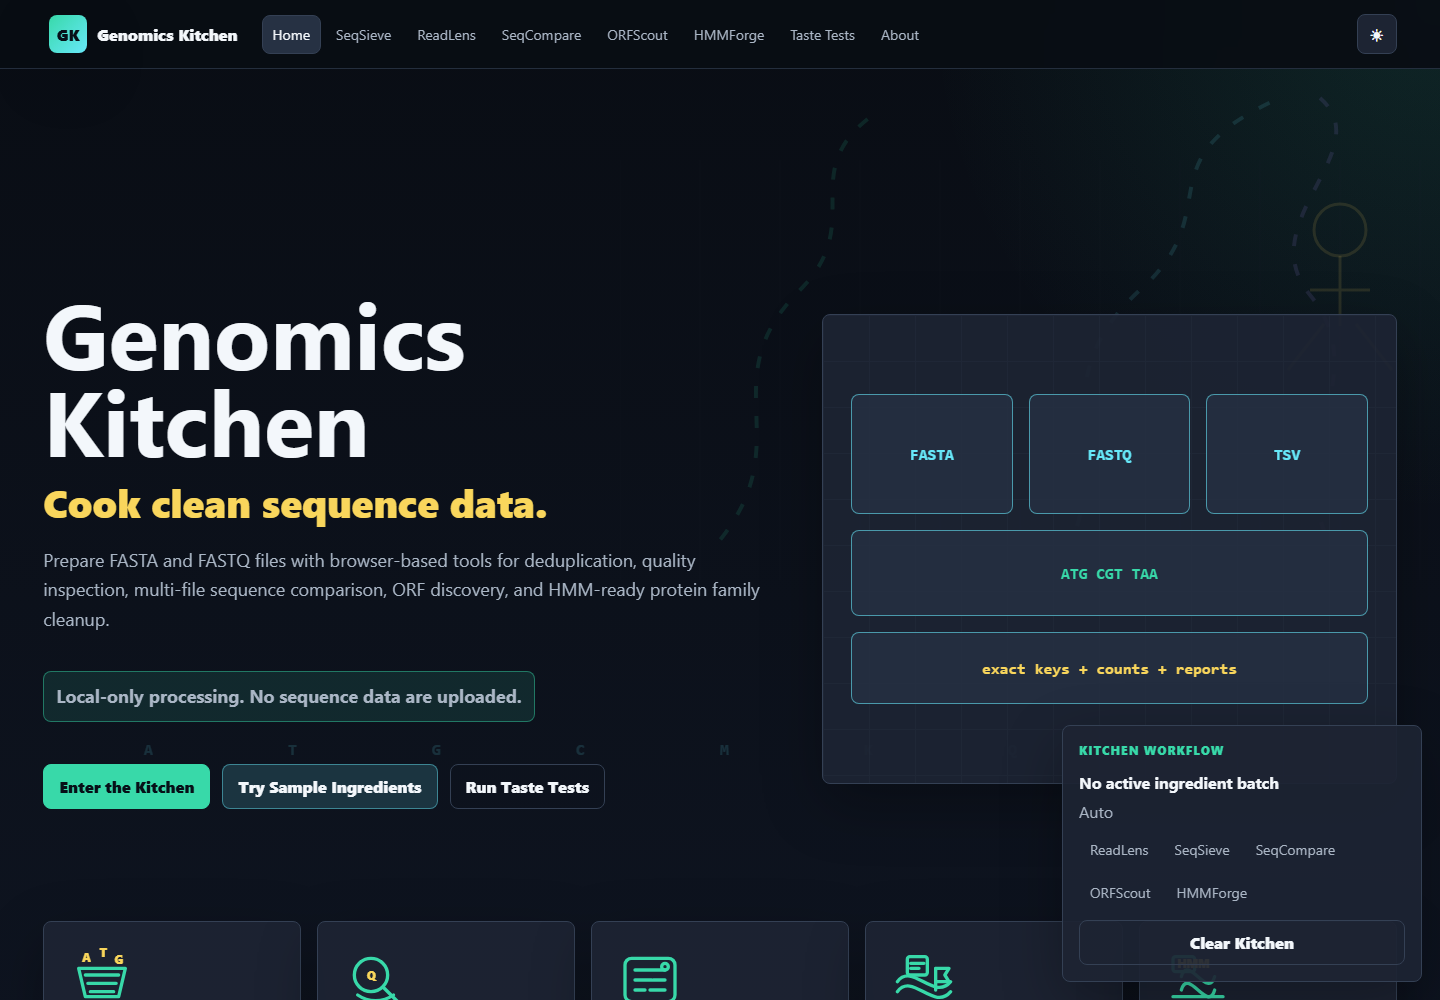
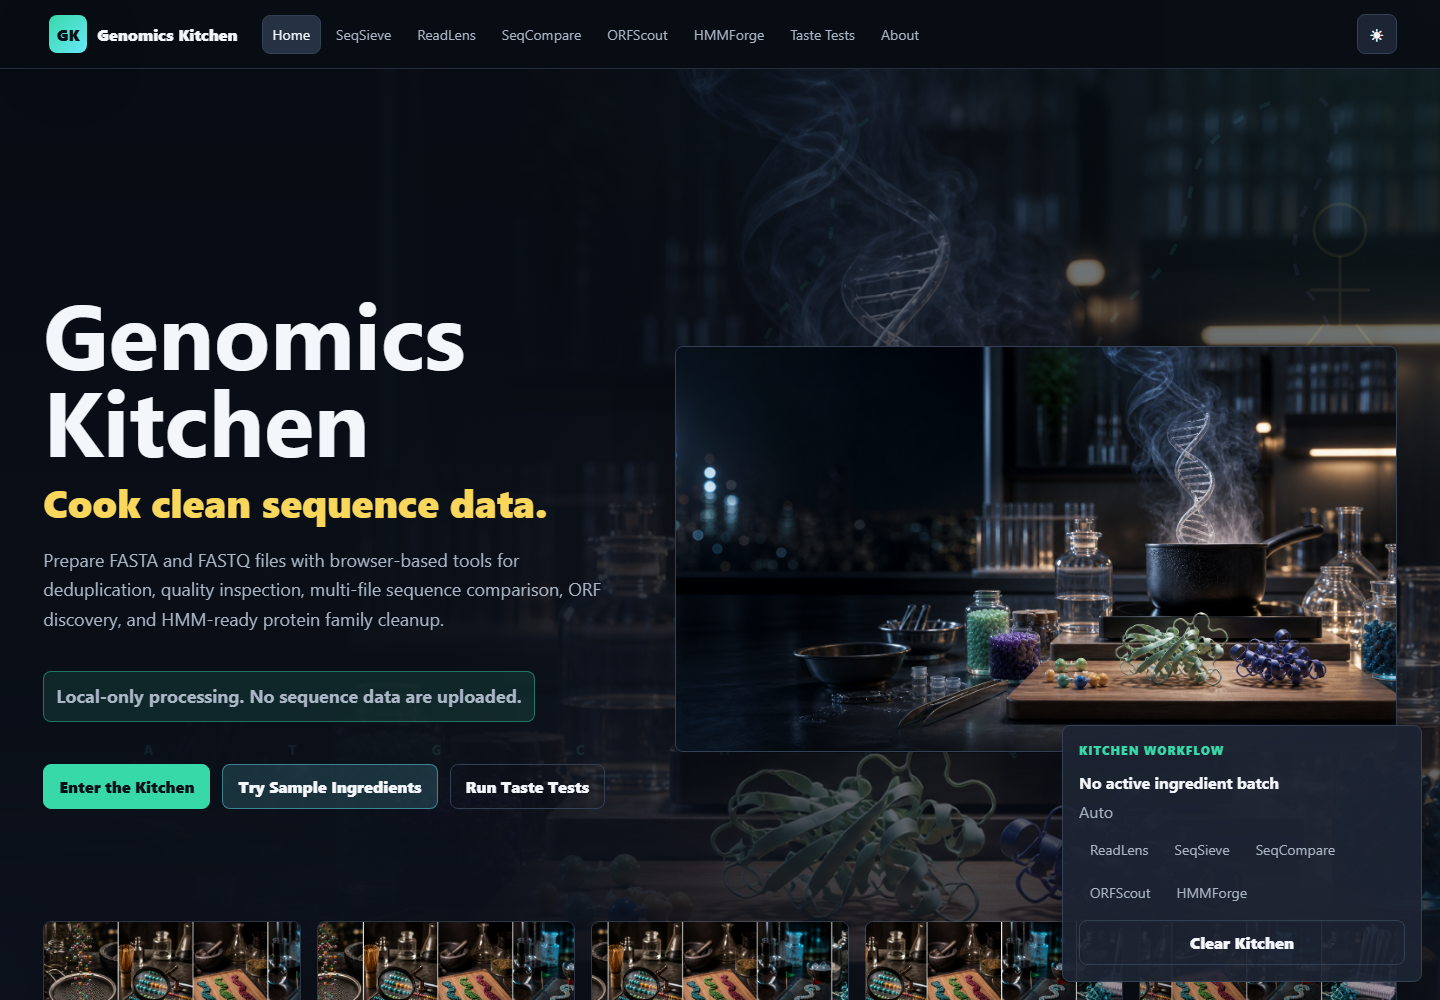
Add realistic Genomics Kitchen graphics

diff --git a/src/styles/global.css b/src/styles/global.css
@@ -12,7 +12,9 @@ nav button, .tabs button, .workflow-actions button { border: 1px solid transpare
 nav button.active, nav button:hover, .tabs button.active, .workflow-actions button:hover { color: var(--gk-text); background: var(--gk-surface-raised); border-color: var(--gk-border); }
 .icon-button { width: 40px; height: 40px; border-radius: 8px; border: 1px solid var(--gk-border); background: var(--gk-surface); color: var(--gk-text); }
 main { position: relative; z-index: 1; padding: 28px clamp(16px, 3vw, 44px) 160px; max-width: 1440px; margin: 0 auto; }
-.hero { min-height: calc(100vh - 96px); display: grid; grid-template-columns: minmax(0, 1fr) minmax(320px, .78fr); align-items: center; gap: 42px; }
+.hero { min-height: calc(100vh - 96px); display: grid; grid-template-columns: minmax(0, .9fr) minmax(360px, 1.1fr); align-items: center; gap: 42px; position: relative; }
+.hero::before { content: ""; position: absolute; inset: -28px calc(50% - 50vw) -88px; background: linear-gradient(90deg, var(--gk-bg) 0%, color-mix(in srgb, var(--gk-bg), transparent 10%) 34%, transparent 62%), var(--hero-image) center right / cover no-repeat; opacity: .42; mask-image: linear-gradient(180deg, #000 70%, transparent); }
+.hero-copy, .hero-photo { position: relative; z-index: 1; }
 .hero h1, .bench h1 { font-size: clamp(44px, 7vw, 92px); line-height: .95; margin: 0 0 12px; letter-spacing: 0; }
 .bench h1 { font-size: clamp(34px, 5vw, 64px); }
 .tagline { font-size: clamp(23px, 3vw, 39px); color: var(--gk-citrus); font-weight: 800; margin: 0 0 18px; }
@@ -25,14 +27,16 @@ main { position: relative; z-index: 1; padding: 28px clamp(16px, 3vw, 44px) 160p
 .button.ghost { background: transparent; }
 .button:disabled { opacity: .45; cursor: not-allowed; }
 .run-button { margin: 20px 0; }
-.hero-board, .panel, .tool-card, .method-card, .workflow-panel { border: 1px solid var(--gk-border); background: color-mix(in srgb, var(--gk-surface), transparent 7%); border-radius: 8px; box-shadow: var(--shadow); }
-.hero-board { min-height: 470px; padding: 28px; display: grid; grid-template-columns: repeat(3, 1fr); gap: 16px; align-content: center; position: relative; overflow: hidden; }
-.hero-board::before { content: ""; position: absolute; inset: 0; background-image: linear-gradient(var(--gk-border) 1px, transparent 1px), linear-gradient(90deg, var(--gk-border) 1px, transparent 1px); background-size: 46px 46px; opacity: .18; }
-.glass-jar, .recipe-slip, .sequence-ribbon { position: relative; border-radius: 8px; border: 1px solid color-mix(in srgb, var(--gk-sky), transparent 42%); background: color-mix(in srgb, var(--gk-surface-raised), transparent 20%); min-height: 120px; display: grid; place-items: center; color: var(--gk-sky); font-family: "SFMono-Regular", Consolas, "Liberation Mono", Menlo, monospace; font-weight: 800; }
-.sequence-ribbon { grid-column: 1 / -1; min-height: 86px; color: var(--gk-mint); }
-.recipe-slip { grid-column: 1 / -1; min-height: 72px; color: var(--gk-citrus); }
+.hero-photo, .panel, .tool-card, .method-card, .workflow-panel { border: 1px solid var(--gk-border); background: color-mix(in srgb, var(--gk-surface), transparent 7%); border-radius: 8px; box-shadow: var(--shadow); }
+.hero-photo { margin: 0; overflow: hidden; aspect-ratio: 16 / 9; min-height: 390px; align-self: center; }
+.hero-photo img { width: 100%; height: 100%; object-fit: cover; display: block; }
 .tool-grid { display: grid; grid-template-columns: repeat(5, minmax(190px, 1fr)); gap: 16px; margin-top: -80px; }
-.tool-card { display: grid; gap: 14px; padding: 18px; min-height: 330px; }
+.tool-card { display: grid; gap: 14px; padding: 12px; min-height: 380px; overflow: hidden; }
+.tool-media { position: relative; height: 150px; margin: -12px -12px 4px; overflow: hidden; border-bottom: 1px solid var(--gk-border); background: var(--gk-countertop); }
+.tool-media::after { content: ""; position: absolute; inset: 0; background: linear-gradient(180deg, transparent 35%, rgba(9, 13, 20, .38)); }
+.tool-media img { width: 100%; height: 100%; object-fit: cover; display: block; filter: saturate(.92) contrast(1.02); }
+.tool-icon-badge { position: absolute; left: 12px; bottom: 10px; z-index: 1; width: 46px; height: 46px; display: grid; place-items: center; border-radius: 8px; background: color-mix(in srgb, var(--gk-bg), transparent 14%); border: 1px solid color-mix(in srgb, var(--gk-mint), transparent 35%); backdrop-filter: blur(10px); }
+.tool-icon-badge .station-icon { width: 34px; height: 34px; }
 .tool-card h3 { margin: 0; font-size: 22px; }
 .tool-card p { color: var(--gk-text-muted); line-height: 1.5; }
 .tool-name, .panel-kicker { color: var(--gk-mint); text-transform: uppercase; font-size: 12px; font-weight: 900; letter-spacing: .08em; margin: 0 0 6px; }
@@ -43,8 +47,10 @@ main { position: relative; z-index: 1; padding: 28px clamp(16px, 3vw, 44px) 160p
 .workflow-recipes h2 { grid-column: 1 / -1; }
 .workflow-recipes article { border-top: 3px solid var(--gk-berry); background: var(--gk-surface); padding: 18px; border-radius: 8px; font-weight: 800; }
 .bench { display: grid; gap: 18px; }
-.bench-header { display: flex; gap: 18px; align-items: center; padding: 28px 0; }
+.bench-header { display: grid; grid-template-columns: auto minmax(0, 1fr) minmax(280px, 430px); gap: 18px; align-items: center; padding: 28px 0; }
 .bench-header .station-icon { width: 94px; height: 94px; flex: 0 0 auto; }
+.bench-photo { margin: 0; height: 190px; overflow: hidden; border: 1px solid var(--gk-border); border-radius: 8px; background: var(--gk-countertop); box-shadow: var(--shadow); }
+.bench-photo img { width: 100%; height: 100%; object-fit: cover; display: block; filter: saturate(.92) contrast(1.02); }
 .panel, .method-card { padding: 20px; }
 .dropzone { display: grid; gap: 14px; }
 .file-button { display: inline-flex; width: fit-content; position: relative; overflow: hidden; }
@@ -95,6 +101,8 @@ td { color: var(--gk-text-muted); font-family: "SFMono-Regular", Consolas, "Libe
   .hero { grid-template-columns: 1fr; padding-top: 40px; }
   .tool-grid, .workflow-recipes { grid-template-columns: repeat(2, 1fr); margin-top: 24px; }
   .control-grid { grid-template-columns: repeat(2, 1fr); }
+  .bench-header { grid-template-columns: auto 1fr; }
+  .bench-photo { grid-column: 1 / -1; width: 100%; }
 }
 @media (max-width: 700px) {
   .topbar { align-items: flex-start; flex-wrap: wrap; }

diff --git a/src/components/LandingPage.jsx b/src/components/LandingPage.jsx
@@ -1,17 +1,18 @@
 import ToolCard from "./ToolCard.jsx";
 
 const tools = [
-  ["SeqSieve", "Sequence Sifter", "Exact deduplication with counts and mapping tables."],
-  ["ReadLens", "Quality Tasting Station", "Inspect sequence quality, length, composition, and warnings."],
-  ["SeqCompare", "Comparison Cutting Board", "Compare multiple FASTA batches and find core, shared, and unique sequences."],
-  ["ORFScout", "Gene Recipe Finder", "Find ORFs and translate nucleotide sequences in six frames."],
-  ["HMMForge", "Protein Prep Bench", "Prepare protein families for alignment and HMMER workflows."],
+  ["SeqSieve", "Sequence Sifter", "Exact deduplication with counts and mapping tables.", "0% center"],
+  ["ReadLens", "Quality Tasting Station", "Inspect sequence quality, length, composition, and warnings.", "25% center"],
+  ["SeqCompare", "Comparison Cutting Board", "Compare multiple FASTA batches and find core, shared, and unique sequences.", "50% center"],
+  ["ORFScout", "Gene Recipe Finder", "Find ORFs and translate nucleotide sequences in six frames.", "75% center"],
+  ["HMMForge", "Protein Prep Bench", "Prepare protein families for alignment and HMMER workflows.", "100% center"],
 ];
 
 export default function LandingPage({ setPage }) {
+  const heroImage = `${import.meta.env.BASE_URL}graphics/molecular-kitchen-hero.png`;
   return (
     <div className="landing">
-      <section className="hero">
+      <section className="hero" style={{ "--hero-image": `url("${heroImage}")` }}>
         <div className="hero-copy">
           <h1>Genomics Kitchen</h1>
           <p className="tagline">Cook clean sequence data.</p>
@@ -23,14 +24,12 @@ export default function LandingPage({ setPage }) {
             <button className="button ghost" onClick={() => setPage("Taste Tests")}>Run Taste Tests</button>
           </div>
         </div>
-        <div className="hero-board" aria-hidden="true">
-          <div className="glass-jar">FASTA</div><div className="glass-jar">FASTQ</div><div className="glass-jar">TSV</div>
-          <div className="sequence-ribbon">ATG CGT TAA</div>
-          <div className="recipe-slip">exact keys + counts + reports</div>
-        </div>
+        <figure className="hero-photo">
+          <img src={heroImage} alt="Realistic molecular kitchen bench with glassware, protein models, and DNA-like vapor." />
+        </figure>
       </section>
       <section className="tool-grid">
-        {tools.map(([tool, kitchenTitle, description]) => <ToolCard key={tool} tool={tool} kitchenTitle={kitchenTitle} description={description} onOpen={() => setPage(tool)} />)}
+        {tools.map(([tool, kitchenTitle, description, imagePosition]) => <ToolCard key={tool} tool={tool} kitchenTitle={kitchenTitle} description={description} imagePosition={imagePosition} onOpen={() => setPage(tool)} />)}
       </section>
       <section className="workflow-recipes">
         <h2>Workflow recipe cards</h2>

diff --git a/src/styles/animations.css b/src/styles/animations.css
@@ -1,11 +1,11 @@
-.live-art { position: fixed; inset: 0; pointer-events: none; z-index: 0; opacity: .55; }
+.live-art { position: fixed; inset: 0; pointer-events: none; z-index: 0; opacity: .24; }
 .live-art svg { position: absolute; right: -80px; top: 80px; width: min(70vw, 900px); height: auto; }
 .steam { fill: none; stroke: var(--gk-mint); stroke-width: 4; opacity: .22; stroke-dasharray: 12 18; animation: steam 11s linear infinite; }
 .steam-b { stroke: var(--gk-sky); animation-duration: 14s; }
 .steam-c { stroke: var(--gk-berry); animation-duration: 17s; }
 .grid-lines line { stroke: var(--gk-border); opacity: .18; }
 .phage-shape circle, .phage-shape path { fill: none; stroke: var(--gk-citrus); stroke-width: 3; opacity: .22; }
-.float-letter { position: absolute; top: 74%; color: var(--gk-sky); font-weight: 900; font-family: "SFMono-Regular", Consolas, monospace; animation: floatLetter 9s ease-in-out infinite; opacity: .26; }
+.float-letter { position: absolute; top: 74%; color: var(--gk-sky); font-weight: 900; font-family: "SFMono-Regular", Consolas, monospace; animation: floatLetter 9s ease-in-out infinite; opacity: .1; }
 .tool-card:hover .station-icon { transform: translateY(-4px) rotate(-2deg); }
 .station-icon { transition: transform .2s ease; }
 .oven.active span { animation: cook 1.4s ease-out both; }

diff --git a/src/components/ToolCard.jsx b/src/components/ToolCard.jsx
@@ -2,11 +2,15 @@ import { CuttingBoardIcon, ProteinPrepBenchIcon, QualityTastingIcon, RecipeFinde
 
 const icons = { SeqSieve: SequenceSifterIcon, ReadLens: QualityTastingIcon, SeqCompare: CuttingBoardIcon, ORFScout: RecipeFinderIcon, HMMForge: ProteinPrepBenchIcon };
 
-export default function ToolCard({ tool, kitchenTitle, description, onOpen }) {
+export default function ToolCard({ tool, kitchenTitle, description, onOpen, imagePosition = "center" }) {
   const Icon = icons[tool] || SequenceSifterIcon;
+  const stationStrip = `${import.meta.env.BASE_URL}graphics/station-vignettes.png`;
   return (
     <article className="tool-card">
-      <Icon />
+      <div className="tool-media">
+        <img src={stationStrip} alt="" style={{ objectPosition: imagePosition }} loading="lazy" />
+        <span className="tool-icon-badge"><Icon /></span>
+      </div>
       <div>
         <p className="tool-name">{tool}</p>
         <h3>{kitchenTitle}</h3>

diff --git a/src/components/KitchenBench.jsx b/src/components/KitchenBench.jsx
@@ -1,4 +1,6 @@
 export default function KitchenBench({ title, kitchenTitle, subtitle, icon, children }) {
+  const stationStrip = `${import.meta.env.BASE_URL}graphics/station-vignettes.png`;
+  const positions = { SeqSieve: "0% center", ReadLens: "25% center", SeqCompare: "50% center", ORFScout: "75% center", HMMForge: "100% center" };
   return (
     <section className="bench">
       <header className="bench-header">
@@ -8,6 +10,11 @@ export default function KitchenBench({ title, kitchenTitle, subtitle, icon, chil
           <h1>{kitchenTitle}</h1>
           <p>{subtitle}</p>
         </div>
+        {positions[title] && (
+          <figure className="bench-photo" aria-hidden="true">
+            <img src={stationStrip} alt="" style={{ objectPosition: positions[title] }} />
+          </figure>
+        )}
       </header>
       {children}
     </section>

diff --git a/DESIGN.md b/DESIGN.md
@@ -21,9 +21,10 @@ Genomics Kitchen is a molecular kitchen where raw sequence ingredients are clean
 
 - Dark molecular kitchen countertop and clean lab-bench light mode.
 - Glass ingredient jars, cutting boards, recipe cards, sifters, measuring cups, progress oven, and export pantry.
-- Subtle DNA steam, protein spices, phage-shaped utensils, and molecular cutting-board grids.
+- Realistic generated photography for the hero and station cards: glass, steel, wood, bead-like sequence ingredients, protein ribbon models, and grounded shadows.
+- Subtle DNA steam, protein spices, phage-shaped utensils, and molecular cutting-board grids as supporting details only.
 
-Avoid cartoonish children’s-game styling, generic blue dashboards, stock kitchen clipart, excessive gradients, low-contrast neon, fake AI hype, and scientific overclaiming.
+Avoid cartoonish children’s-game styling, generic blue dashboards, stock kitchen clipart, excessive gradients, low-contrast neon, fake AI hype, synthetic “AI art” clutter, and scientific overclaiming.
 
 ## Tokens
 
